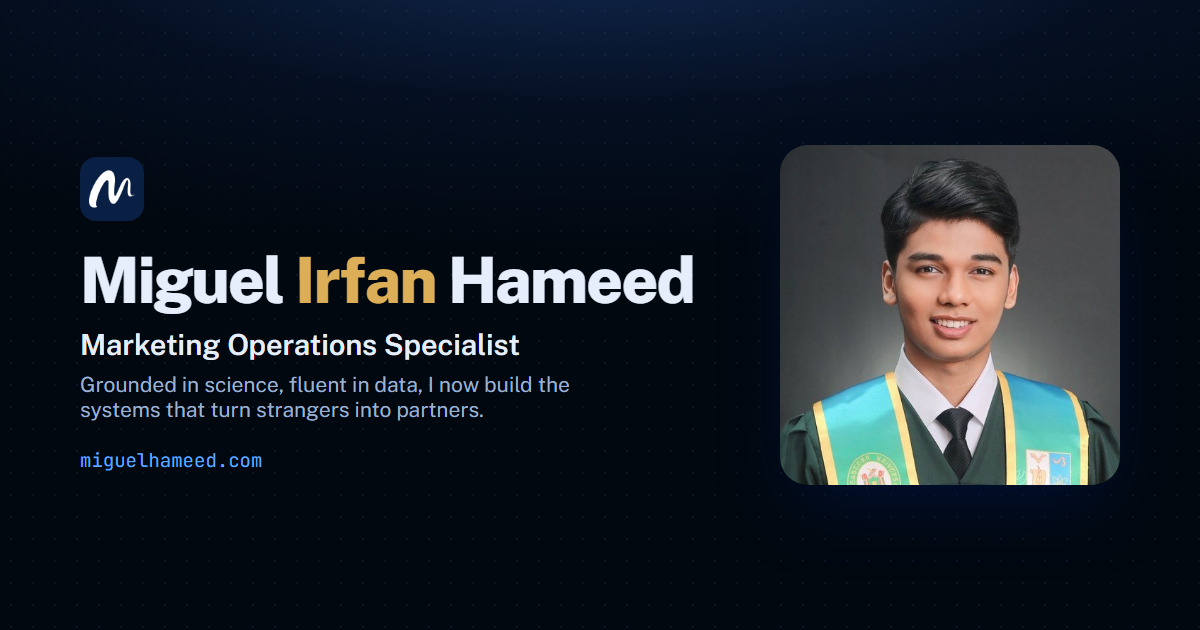
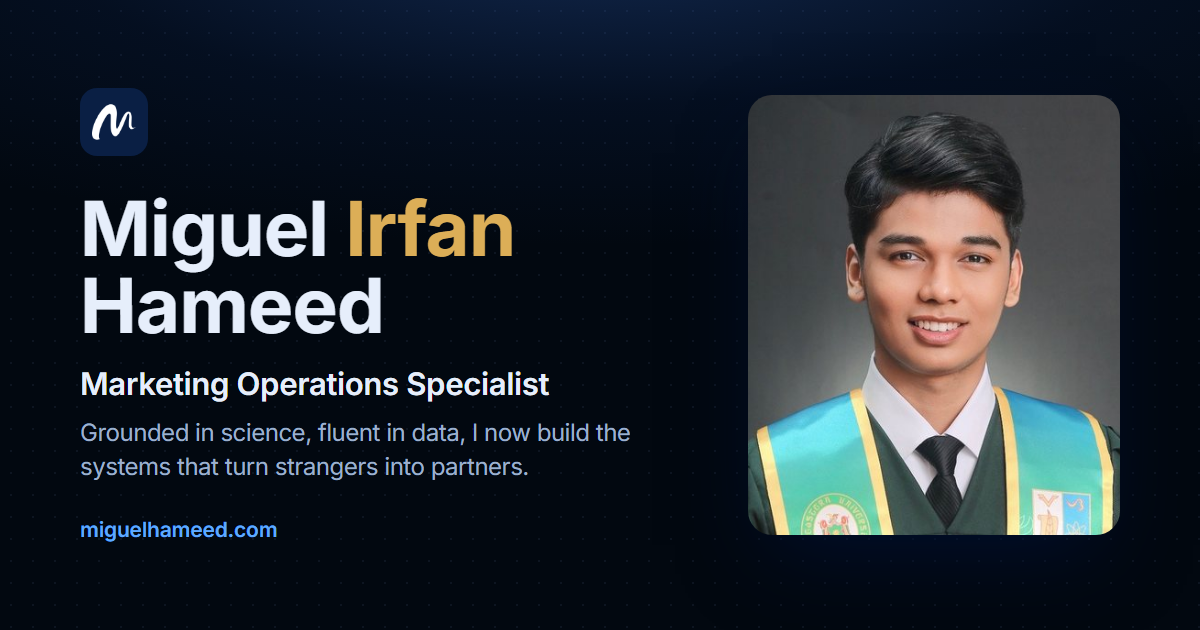
Work gets its own address, a rebuilt share card, and "Let's find a time!"
/work/ is a real page rather than a #fragment on the home page: its own title,
description, canonical and share tags, and an entry in the sitemap. Old
#selected-work links still open it and correct themselves. The page is generated
from index.html so the two cannot drift.

The share card is rebuilt in Inter at the weights the site uses — it was still
in Public Sans at 800 from before the typeface change, and it is the first thing
anyone sees when the link is shared.

"Let's find a time!" replaces "Let's connect!" on the banner, the intro button
and Contact, with the subtitle following it. Contact drops the LinkedIn button
that sat directly under the LinkedIn row.

Also: "Agent and AI Skill building" joins the Skills AI group, the credential
badge is capped on phones so the cards under it are reachable, the sitemap gains
lastmod, and the manifest is referenced relatively — it was absolute, so it
404d anywhere the site was not at a domain root.

Changed region(s): [[0.6167, 0.1508, 0.9558, 0.8746], [0.0617, 0.1206, 0.5858, 0.754], [0.0617, 0.8143, 0.2467, 0.8746]]

diff --git a/work/index.html b/work/index.html
@@ -1,33 +1,34 @@
 <!DOCTYPE html>
+<!-- Generated by tools-build-work.js from index.html. Do not edit by hand. -->
 <html lang="en" data-theme="dark">
 <head>
   <meta charset="utf-8" />
   <meta name="viewport" content="width=device-width, initial-scale=1" />
-  <title>Miguel Irfan Hameed — Marketing Operations Specialist</title>
-  <meta name="description" content="Miguel Irfan Hameed, Marketing Operations Specialist in Quezon City, Philippines. Grounded in science, fluent in data, I now build the systems that turn strangers into partners. Open to work anywhere." />
+  <title>Work — Miguel Irfan Hameed</title>
+  <meta name="description" content="The five workstreams Miguel Irfan Hameed runs at Cloud Sentry Solutions: what he owns on each, where it stops, and the agreement the work runs under." />
   <meta name="theme-color" content="#020810" />
-  <link rel="canonical" href="https://miguelhameed.com/" />
-  <link rel="icon" href="favicon.ico" />
-  <link rel="apple-touch-icon" href="apple-touch-icon.png" />
+  <link rel="canonical" href="https://miguelhameed.com/work/" />
+  <link rel="icon" href="../favicon.ico" />
+  <link rel="apple-touch-icon" href="../apple-touch-icon.png" />
 
   <!-- How the link looks when shared on LinkedIn, Messenger, WhatsApp or X -->
-  <meta property="og:type" content="profile" />
+  <meta property="og:type" content="article" />
   <meta property="og:site_name" content="Miguel Irfan Hameed" />
-  <meta property="og:url" content="https://miguelhameed.com/" />
-  <meta property="og:title" content="Miguel Irfan Hameed — Marketing Operations Specialist" />
-  <meta property="og:description" content="Grounded in science, fluent in data, I now build the systems that turn strangers into partners. Quezon City, Philippines — open to work anywhere." />
+  <meta property="og:url" content="https://miguelhameed.com/work/" />
+  <meta property="og:title" content="Work — Miguel Irfan Hameed" />
+  <meta property="og:description" content="The five workstreams Miguel Irfan Hameed runs at Cloud Sentry Solutions: what he owns on each, where it stops, and the agreement the work runs under." />
   <meta property="og:image" content="https://miguelhameed.com/og-image.png" />
   <meta property="og:image:width" content="1200" />
   <meta property="og:image:height" content="630" />
   <meta property="og:image:alt" content="Miguel Irfan Hameed — Marketing Operations Specialist, Quezon City" />
   <meta name="twitter:card" content="summary_large_image" />
-  <meta name="twitter:title" content="Miguel Irfan Hameed — Marketing Operations Specialist" />
-  <meta name="twitter:description" content="Grounded in science, fluent in data, I now build the systems that turn strangers into partners. Open to work anywhere." />
+  <meta name="twitter:title" content="Work — Miguel Irfan Hameed" />
+  <meta name="twitter:description" content="The five workstreams Miguel Irfan Hameed runs at Cloud Sentry Solutions: what he owns on each, where it stops, and the agreement the work runs under." />
   <meta name="twitter:image" content="https://miguelhameed.com/og-image.png" />
-  <link rel="preload" href="fonts/inter-700.woff2" as="font" type="font/woff2" crossorigin />
-  <link rel="preload" href="fonts/inter-400.woff2" as="font" type="font/woff2" crossorigin />
-  <link rel="stylesheet" href="fonts/fonts.css" />
-  <link rel="manifest" href="site.webmanifest" />
+  <link rel="preload" href="../fonts/inter-700.woff2" as="font" type="font/woff2" crossorigin />
+  <link rel="preload" href="../fonts/inter-400.woff2" as="font" type="font/woff2" crossorigin />
+  <link rel="stylesheet" href="../fonts/fonts.css" />
+  <link rel="manifest" href="../site.webmanifest" />
   <script type="application/ld+json">
 {
   "@context": "https://schema.org",
@@ -60,7 +61,7 @@
   ]
 }
   </script>
-  <link rel="stylesheet" href="styles.css" />
+  <link rel="stylesheet" href="../styles.css" />
 </head>
 <body>
   <a class="skip-link" href="#messages">Skip to content</a>
@@ -75,7 +76,7 @@
 
       <!-- icon rail (desktop) -->
       <nav class="rail" aria-label="Workspace">
-        <a class="rail-mark" href="#intro" aria-label="Miguel's logo, back to the top"><img src="images/logo.svg" alt="" width="38" height="38" /></a>
+        <a class="rail-mark" href="#intro" aria-label="Miguel's logo, back to the top"><img src="../images/logo.svg" alt="" width="38" height="38" /></a>
         <a class="rail-btn is-active" href="#intro" data-rail="home">
           <svg viewBox="0 0 24 24" aria-hidden="true"><path d="M4 11.5 12 5l8 6.5V20a1 1 0 0 1-1 1h-4.5v-6h-5v6H5a1 1 0 0 1-1-1z"/></svg>
           <span>Home</span>
@@ -143,7 +144,7 @@
         <h1 class="sr-only">Miguel Hameed — Marketing Operations Specialist</h1>
         <div class="feed" id="feed">
           <noscript><p class="noscript">This page needs JavaScript to show its content. You can still reach Miguel at
-            <a href="mailto:miguelhameed@gmail.com">miguelhameed@gmail.com</a> or download his <a href="cv.pdf">CV</a>.</p></noscript>
+            <a href="mailto:miguelhameed@gmail.com">miguelhameed@gmail.com</a> or download his <a href="../cv.pdf">CV</a>.</p></noscript>
         </div>
       </main>
 
@@ -170,7 +171,7 @@
 
   <!-- GoatCounter: visitor counts, no cookies, nothing personal. Dashboard: https://miguelhameed.goatcounter.com -->
   <script data-goatcounter="https://miguelhameed.goatcounter.com/count" async src="//gc.zgo.at/count.js"></script>
-  <script src="content.js"></script>
-  <script src="script.js"></script>
+  <script src="../content.js"></script>
+  <script src="../script.js"></script>
 </body>
 </html>

diff --git a/script.js b/script.js
@@ -17,7 +17,7 @@
     { id: 'experience', title: 'Experience', sub: 'Where I have worked' },
     { id: 'proof', title: 'Proof', sub: 'Certifications, training and projects' },
     ...(S.testimonials.length >= 2 ? [{ id: 'testimonials', title: 'Testimonials', sub: 'What people say' }] : []),
-    { id: 'contact', title: 'Contact', sub: 'Get in touch' },
+    { id: 'contact', title: 'Contact', sub: 'Find a time to talk' },
   ];
 
   const ICONS = {
@@ -64,11 +64,11 @@
     <h2 class="channel-divider" id="${c.id}" data-section="${c.id}">
       <span class="hash">#</span>${c.title}<span class="divider-sub">${esc(c.sub)}</span>
     </h2>`;
-  const buttons = (attr = '') => `
+  const buttons = (attr = '', withLinkedIn = true) => `
     <div class="actions" ${attr}>
       ${S.showCv === false ? '' : `<a class="btn btn-primary" href="${esc(P.cv)}" target="_blank" rel="noopener">Download CV</a>`}
-      <a class="btn ${S.showCv === false ? 'btn-primary' : ''}" href="mailto:${esc(P.email)}">Let's connect!</a>
-      <a class="btn" href="${esc(P.linkedin)}" target="_blank" rel="noopener">LinkedIn ↗</a>
+      <a class="btn ${S.showCv === false ? 'btn-primary' : ''}" href="mailto:${esc(P.email)}">Let's find a time!</a>
+      ${withLinkedIn ? `<a class="btn" href="${esc(P.linkedin)}" target="_blank" rel="noopener">LinkedIn ↗</a>` : ''}
     </div>`;
 
   function introPhoto() {
@@ -234,7 +234,7 @@
         <li><span class="label">based in</span><span>${esc(P.location)} · <span data-clock>${manilaTime()}</span> local time</span></li>
         <li><span class="label">status</span><span><i class="dot-good"></i> ${esc(P.availability)}</span></li>
       </ul>
-      ${buttons('data-contact-actions')}`) + `<p class="end">— end of conversation —</p>`;
+      ${buttons('data-contact-actions', false)}`) + `<p class="end">— end of conversation —</p>`;
   }
 
   function filesPanel() {
@@ -280,11 +280,22 @@
   }
   $$('[data-view-back]').forEach((b) => b.addEventListener('click', () => { history.back(); }));
 
+  const VIEW_PATH = { 'selected-work': 'work/' };
+  const ROOT = location.pathname.replace(/index\.html$/, '').replace(/work\/?$/, '').replace(/\/?$/, '/');
+  const urlFor = (id) => ROOT + (id && VIEW_PATH[id] ? VIEW_PATH[id] : '');
+  const viewFromPath = () => {
+    const rest = location.pathname.slice(ROOT.length).replace(/index\.html$/, '');
+    const hit = Object.keys(VIEW_PATH).find((id) => VIEW_PATH[id].replace(/\/$/, '') === rest.replace(/\/$/, ''));
+    return hit || null;
+  };
+
   function openFromHash(replace) {
-    const id = location.hash.slice(1);
-    const isView = CHANNELS.some((c) => c.view && c.id === id);
-    showView(isView ? id : null);
-    if (replace) history.replaceState({ view: isView ? id : null }, '');
+    const hashId = location.hash.slice(1);
+    const hashIsView = CHANNELS.some((c) => c.view && c.id === hashId);
+    const id = hashIsView ? hashId : viewFromPath();
+    showView(id);
+    if (hashIsView) history.replaceState({ view: id }, '', urlFor(id));
+    else if (replace) history.replaceState({ view: id }, '');
   }
   window.addEventListener('hashchange', () => openFromHash(true));
   window.addEventListener('popstate', (e) => {
@@ -350,9 +361,17 @@
   $$('a[href^="#"]').forEach((link) => {
     const id = link.getAttribute('href').slice(1);
     const isView = CHANNELS.some((c) => c.view && c.id === id);
+    if (isView) link.setAttribute('href', urlFor(id));
     link.addEventListener('click', (e) => {
-      if (isView) { e.preventDefault(); history.pushState({ view: id }, '', '#' + id); showView(id); }
-      else if (openView) { showView(null); }
+      if (isView) {
+        if (e.metaKey || e.ctrlKey || e.shiftKey || e.button !== 0) return; // let the browser open a new tab
+        e.preventDefault();
+        history.pushState({ view: id }, '', urlFor(id));
+        showView(id);
+      } else if (openView) {
+        history.pushState({ view: null }, '', urlFor(null) + link.getAttribute('href'));
+        showView(null);
+      }
     });
   });
 
@@ -382,7 +401,7 @@
   const floatX = $('#float-x');
   floatLink.href = 'mailto:' + P.email;
   floatLink.innerHTML = `<span class="float-app">${ICONS.email}</span>`
-    + `<span class="float-text"><strong>Let's connect!</strong><span class="float-sub">${esc(P.email)}</span></span>`
+    + `<span class="float-text"><strong>Let's find a time!</strong><span class="float-sub">${esc(P.email)}</span></span>`
     + `<span class="float-when">now</span>`;
   $$('[data-mail]').forEach((a) => { a.href = 'mailto:' + P.email; });
   let floatDismissed = false;

diff --git a/content.js b/content.js
@@ -144,7 +144,7 @@ window.SITE = {
       does: ['Lead and partner research', 'Lead qualification', 'Pipeline management', 'Competitive research and teardowns', 'Outreach sequencing and replies'],
       tools: ['Dripify', 'LinkedIn Sales Navigator', 'Apollo'] },
     { group: 'AI and automation',
-      does: ['AI workflow mapping'],
+      does: ['Agent and AI Skill building', 'AI workflow mapping'],
       tools: ['Claude', 'ClickUp AI'] },
     { group: 'Operations and process',
       does: ['Workflow design', 'Process documentation', 'Website quality checks'],

diff --git a/styles.css b/styles.css
@@ -666,6 +666,9 @@ body.sheet-open { overflow: hidden; }
 @media (max-width: 767px) {
   .sheet { padding: 20px; width: calc(100vw - 20px); max-height: 92vh; }
   .sheet-meta { gap: 8px 20px; }
+  /* A proof card goes full width on a phone, so an unchecked badge fills most of the first screen of the
+     channel and the cards under it never get seen. Capped, and centred in the space it gives back. */
+  .proof-logo { max-width: 170px; margin-left: auto; margin-right: auto; }
 }
 
 /* testimonials */
